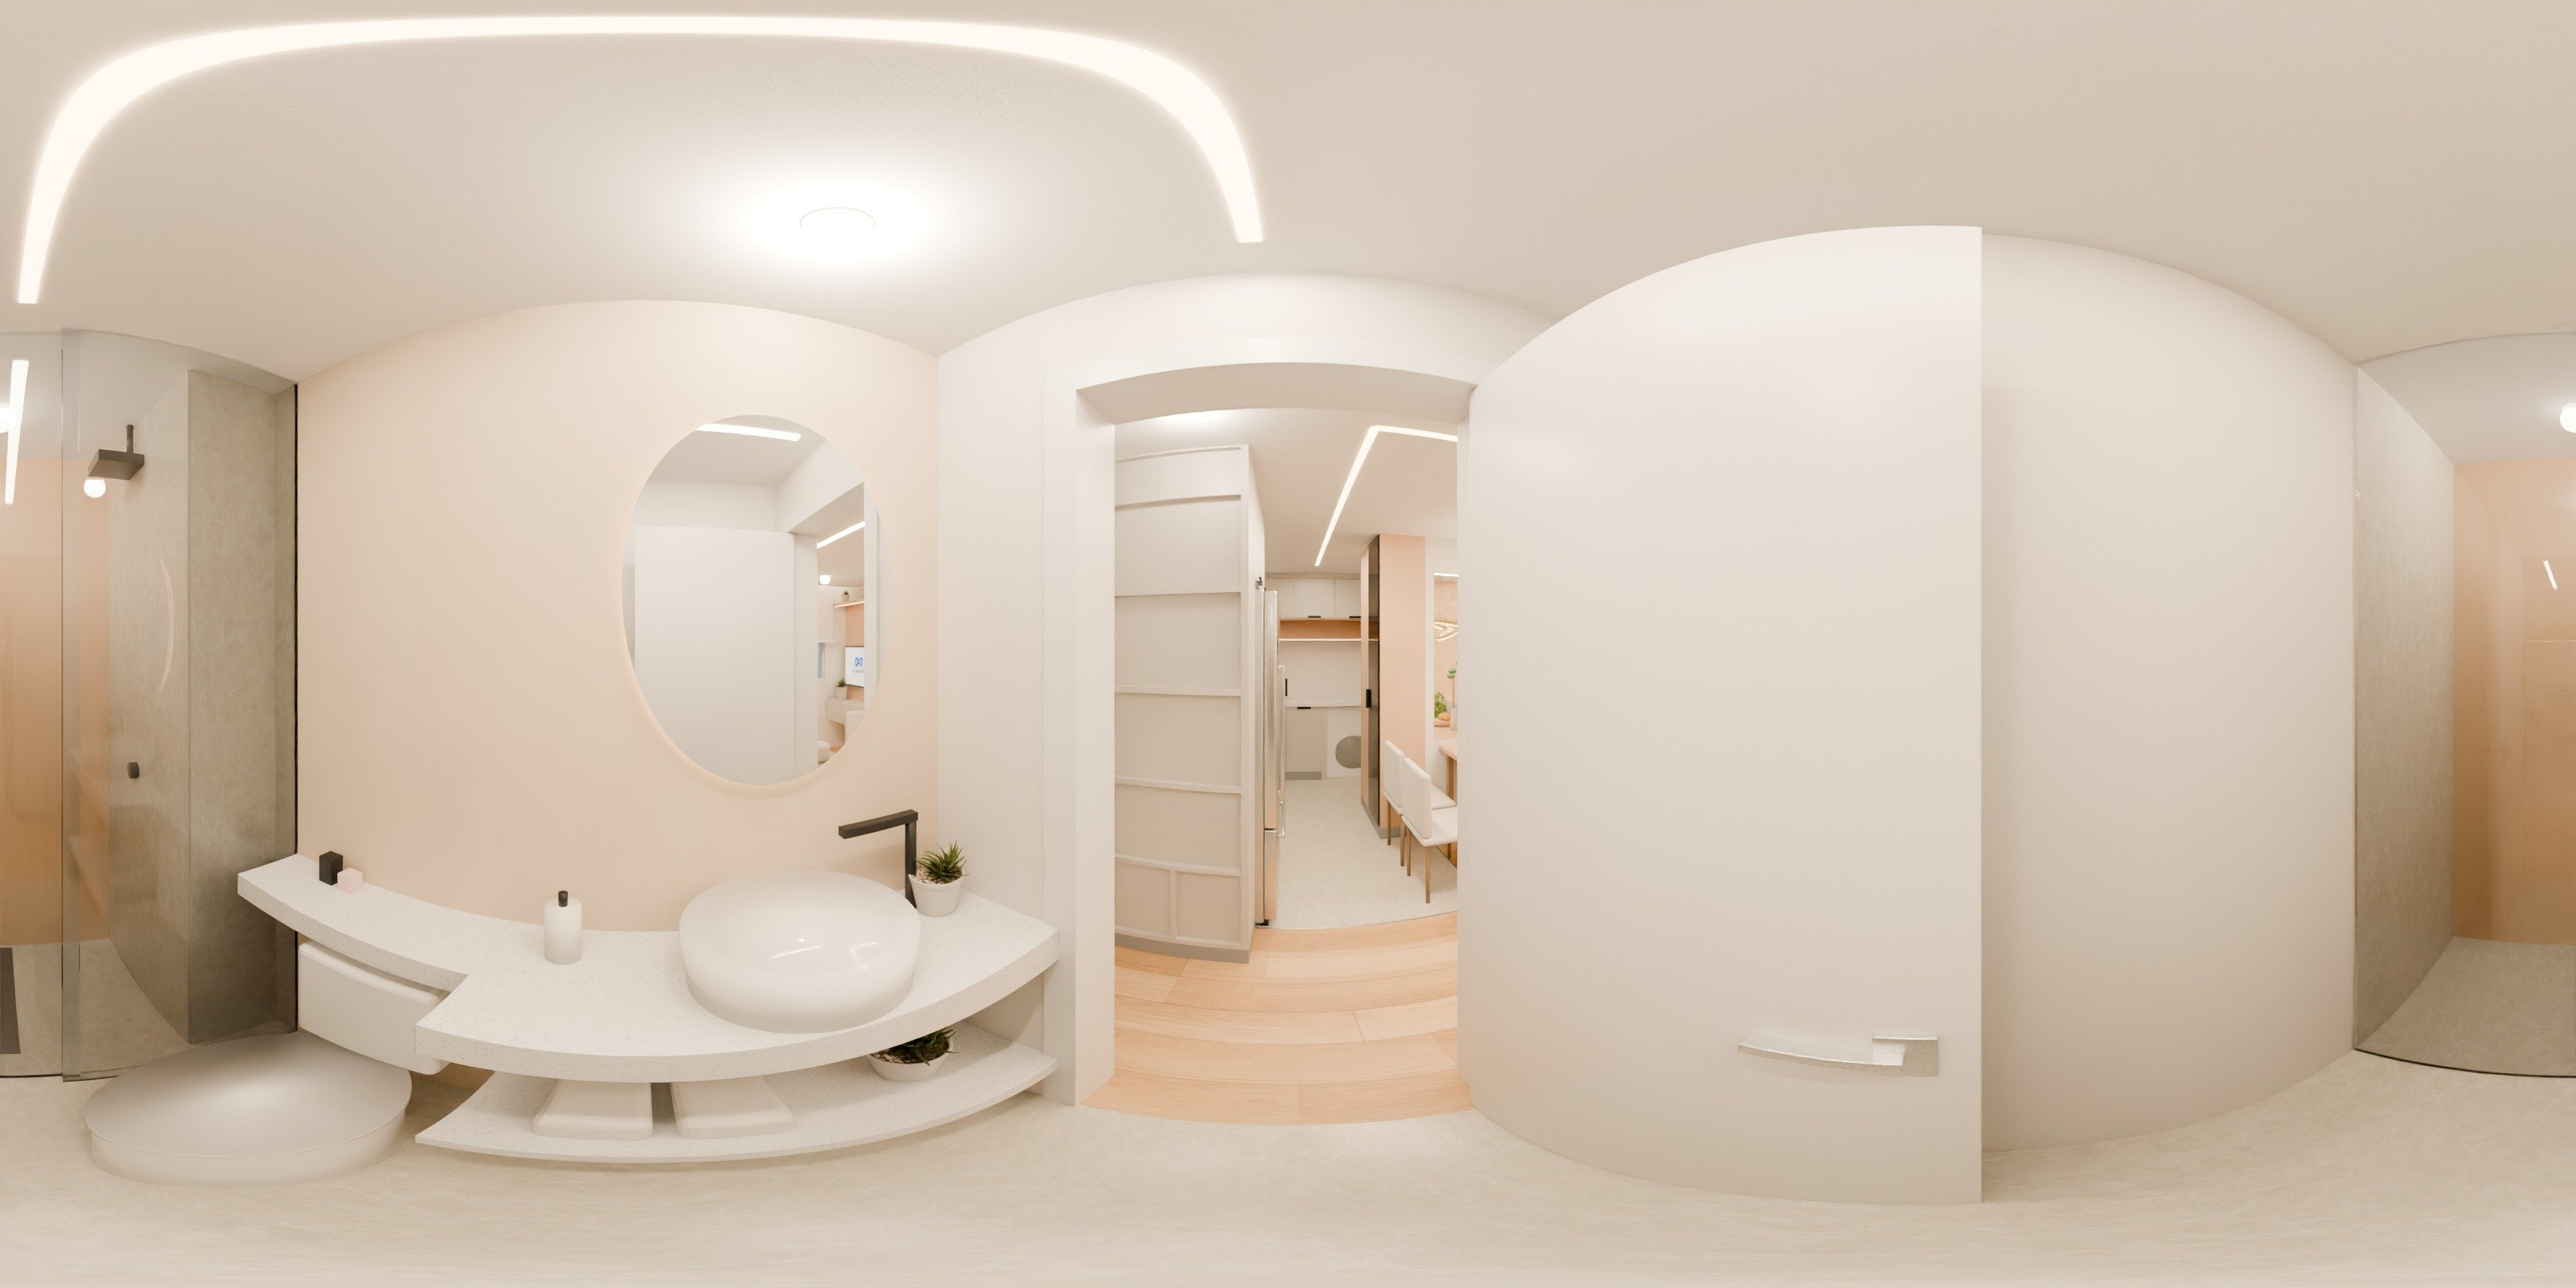
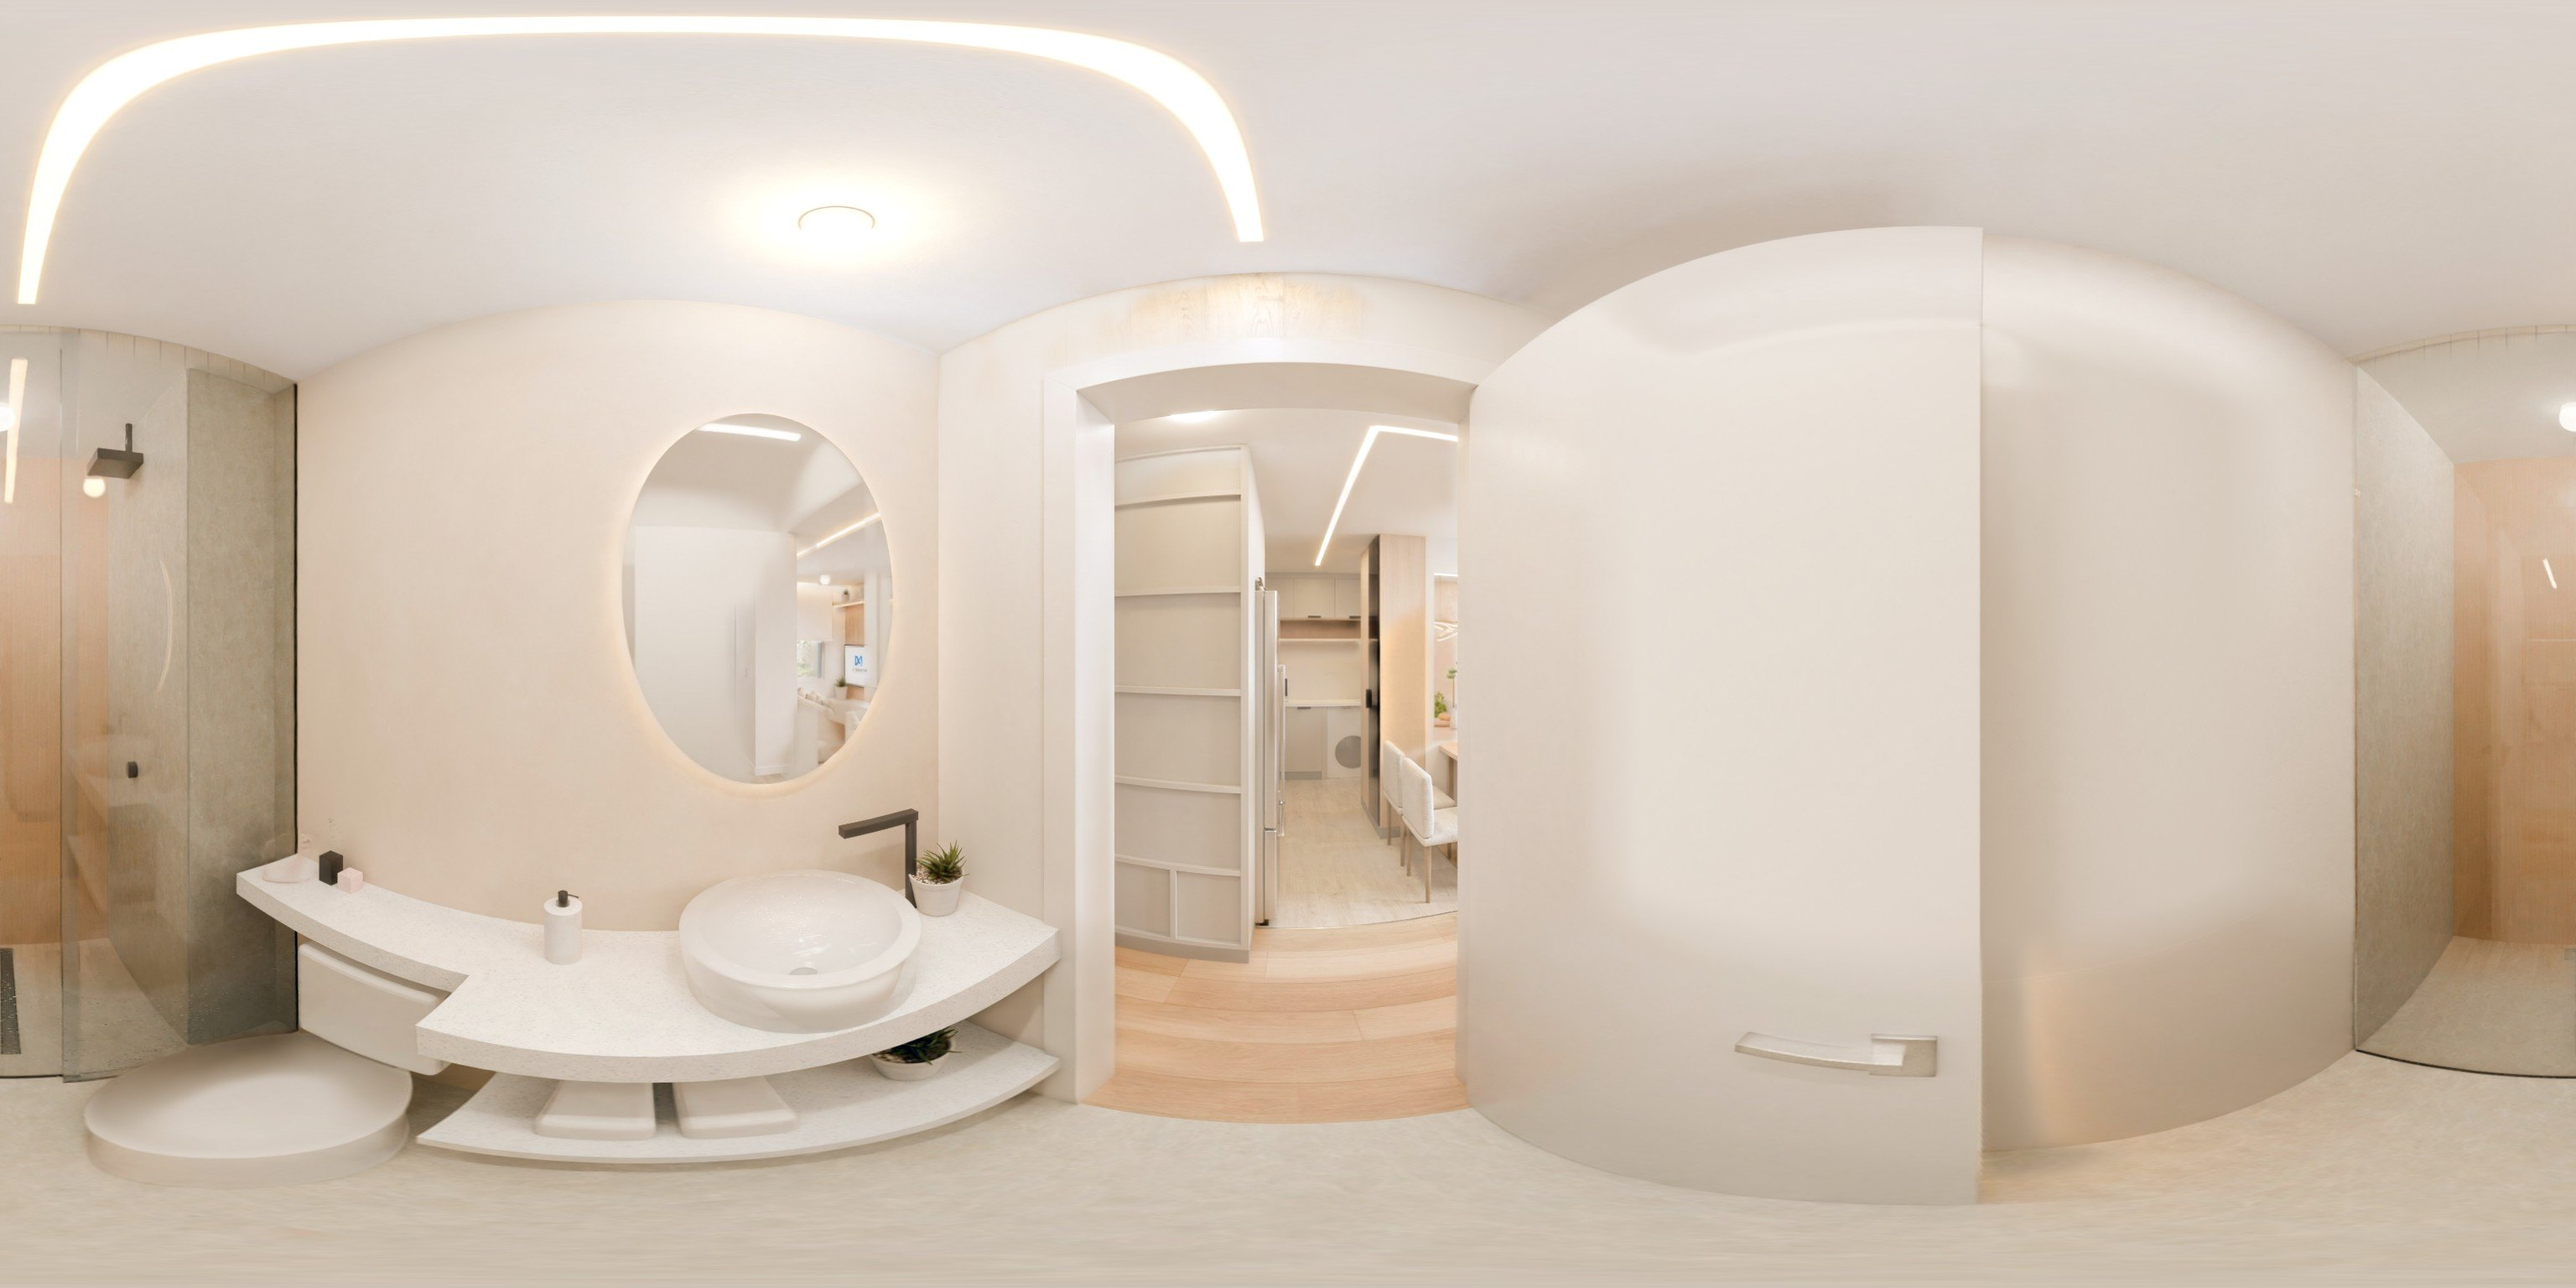
Visita 360° com acabamento fotorrealista fiel ao projeto e carvalho natural
Claude-Session: https://claude.ai/code/session_01TCwC85nDjNHJiKaGTNL9QG

diff --git a/360/index.html b/360/index.html
@@ -48,11 +48,11 @@ nav button:focus-visible{outline:2px solid var(--brand);outline-offset:2px}
 <script>
 // posição de cada foto 360 na planta (m) e portas para onde as setas apontam
 const ROOMS=[
- {name:"Sala",img:"sala.jpg?v=2",p:[3.55,-3.3],go:[["Cozinha",1,[4.1,-1.7]],["Dormitório 02",3,[4.74,-3.04]],["Dormitório 01",2,[2.42,-1.9]],["Banheiro",4,[2.6,-0.75]]]},
- {name:"Cozinha",img:"cozinha.jpg?v=2",p:[4.3,-1.05],go:[["Sala",0,[3.6,-3.0]],["Banheiro",4,[2.6,-0.75]]]},
- {name:"Dormitório 01",img:"dormitorio_01.jpg?v=2",p:[1.2,-2.4],go:[["Sala",0,[2.42,-1.9]]]},
- {name:"Dormitório 02",img:"dormitorio_02.jpg?v=2",p:[5.7,-3.1],go:[["Sala",0,[4.74,-3.04]]]},
- {name:"Banheiro",img:"banheiro.jpg?v=2",p:[1.75,-0.75],look:[0.45,-0.65],go:[["Cozinha",1,[2.6,-0.75]]]}];
+ {name:"Sala",img:"sala.jpg?v=3",p:[3.55,-3.3],go:[["Cozinha",1,[4.1,-1.7]],["Dormitório 02",3,[4.74,-3.04]],["Dormitório 01",2,[2.42,-1.9]],["Banheiro",4,[2.6,-0.75]]]},
+ {name:"Cozinha",img:"cozinha.jpg?v=3",p:[4.3,-1.05],go:[["Sala",0,[3.6,-3.0]],["Banheiro",4,[2.6,-0.75]]]},
+ {name:"Dormitório 01",img:"dormitorio_01.jpg?v=3",p:[1.2,-2.4],go:[["Sala",0,[2.42,-1.9]]]},
+ {name:"Dormitório 02",img:"dormitorio_02.jpg?v=3",p:[5.7,-3.1],go:[["Sala",0,[4.74,-3.04]]]},
+ {name:"Banheiro",img:"banheiro.jpg?v=3",p:[1.75,-0.75],look:[0.45,-0.65],go:[["Cozinha",1,[2.6,-0.75]]]}];
 const view=document.getElementById('view'),hint=document.getElementById('hint'),nav=document.getElementById('rooms');
 const renderer=new THREE.WebGLRenderer({antialias:true});renderer.setPixelRatio(Math.min(devicePixelRatio,2));
 view.prepend(renderer.domElement);renderer.outputEncoding=THREE.sRGBEncoding;
